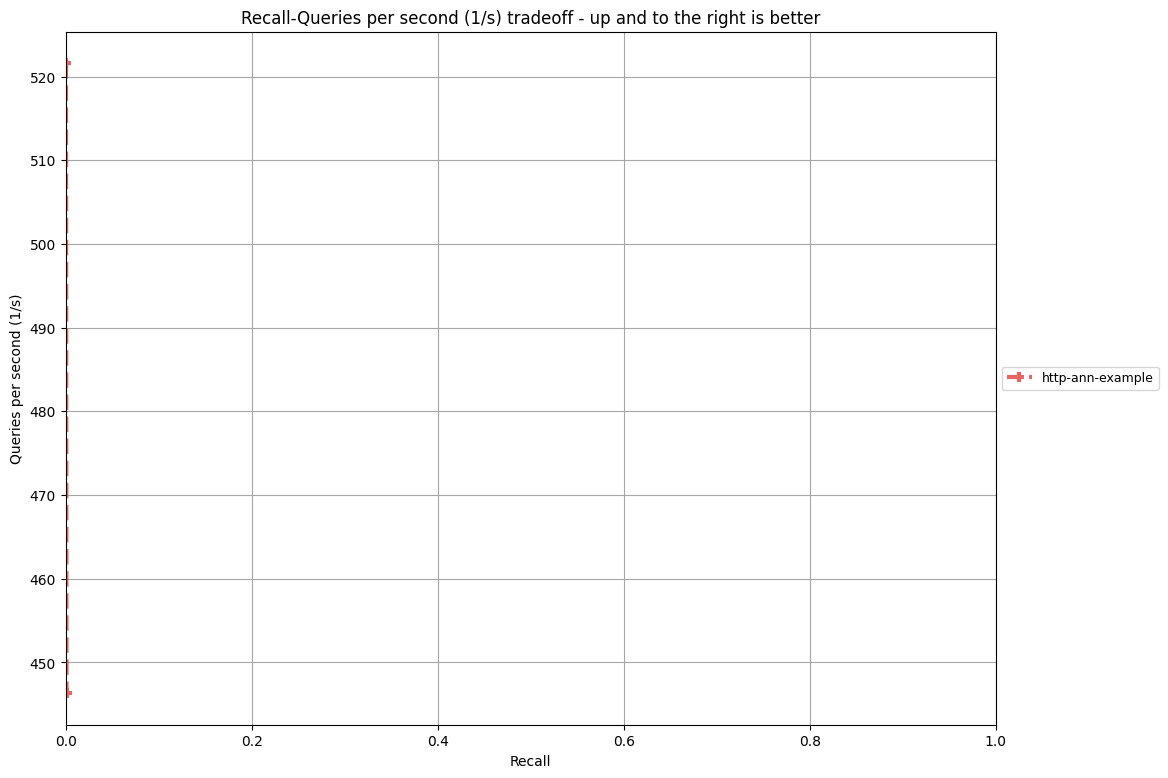
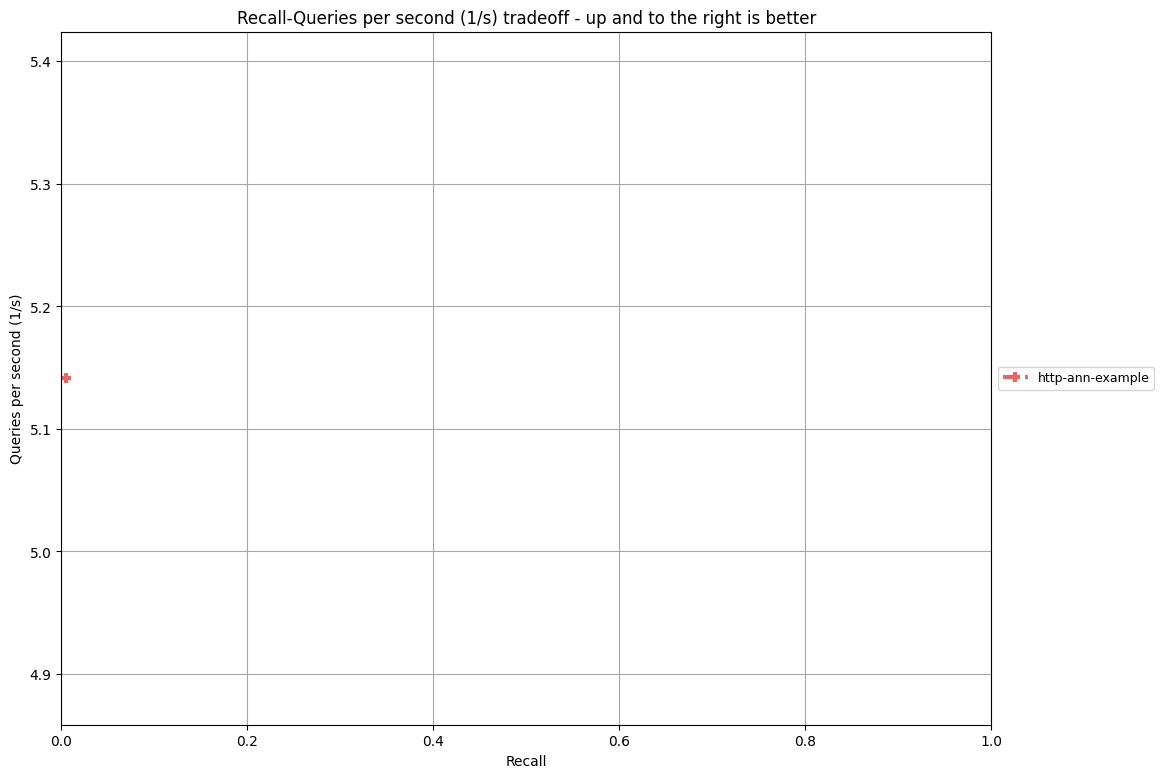
Runs end-to-end with plausible results. Better comments and docs.

diff --git a/benchmark/algorithms/httpann.py b/benchmark/algorithms/httpann.py
@@ -1,31 +1,35 @@
-import requests
 import shlex
 import sys
 import time
-from dataclasses import dataclass
 from subprocess import Popen
 from threading import Thread
-from typing import Union, List
 
 import numpy as np
+import requests
 from flask import jsonify
-
 from sklearn.neighbors import NearestNeighbors
 
 from benchmark.algorithms.base import BaseANN
 from benchmark.datasets import DATASETS
 
 
-class HttpANNError(RuntimeError):
-    pass
-
-
-class HttpANNResponseError(HttpANNError):
-    def __init__(self, endpoint: str, expected_status: int, actual_status: int):
-        super(HttpANNError, self).__init__(f"Endpoint {endpoint} expected {expected_status} but got {actual_status}")
-
-
 class HttpANN(BaseANN):
+    """
+    HTTP-based ANN model.
+    Designed to enable language-agnostic ANN by delegating indexing and querying to a separate HTTP server.
+
+    The HTTP server must satisfy the following API.
+    Note that this is basically a 1:1 copy of the BaseANN Python Class API implemented as remote procedure calls.
+
+    | Method | Route                | Request Body                                                                                               | Expected Status | Response Body                                                              |
+    | ------ | -------------------- | ---------------------------------------------------------------------------------------------------------- | --------------- | -------------------------------------------------------------------------- |
+    | POST   | /init                | dictionary of constructor arguments, e.g., {“metric”: “euclidean”, “dimension”: 99 }                       | 201             | { }                                                                        |
+    | POST   | /load_index          | { "dataset": <dataset name, e.g. "bigann-10m"> }                                                           | 201             | { "load_index": <Boolean indicating whether the index can be loaded> }     |
+    | POST   | /set_query_arguments | dictionary of query arguments                                                                              | 201             | { }                                                                        |
+    | POST   | /query               | { “X”: <query vectors as list of lists of floats>, “k”: <number of neighbors to find and keep in memory> } | 201             | { }                                                                        |
+    | POST   | /get_results         | { }                                                                                                        | 200             | { “get_results”: <neighbors as list of lists of ints> }                    |
+    | POST   | /get_additional      | { }                                                                                                        | 200             | { “get_additional”: <dictionary of arbitrary additional result metadata> } |
+    """
 
     def __init__(self, server_url: str, start_seconds: int, name: str, **kwargs):
         self.server_url = server_url
@@ -41,13 +45,6 @@ class HttpANN(BaseANN):
     def post(self, path: str, body: dict, expected_status: int) -> dict:
         url = f"{self.server_url}/{path}"
         res = requests.post(url, json=body)
-        if res.status_code != expected_status:
-            raise HttpANNResponseError(url, expected_status, res.status_code)
-        return res.json()
-
-    def get(self, path: str, expected_status: int) -> dict:
-        url = f"{self.server_url}/{path}"
-        res = requests.get(url)
         if res.status_code != expected_status:
             raise HttpANNResponseError(url, expected_status, res.status_code)
         return res.json()
@@ -69,21 +66,38 @@ class HttpANN(BaseANN):
         pass
 
     def get_results(self):
-        json = self.get("results", 200)
-        return np.array(json)
+        json = self.post("get_results", dict(), 200)
+        return np.array(json["get_results"])
 
     def get_range_results(self):
         pass
 
     def get_additional(self):
-        return {}
+        json = self.post("get_additional", dict(), 200)
+        return json["get_additional"]
 
     def set_query_arguments(self, query_args):
         body = dict(query_args=query_args)
         self.post("set_query_arguments", body, 201)
 
 
+class HttpANNError(RuntimeError):
+    """Custom error type"""
+    pass
+
+
+class HttpANNResponseError(HttpANNError):
+    """Custom error type"""
+    def __init__(self, endpoint: str, expected_status: int, actual_status: int):
+        super(HttpANNError, self).__init__(f"Endpoint {endpoint} expected {expected_status} but got {actual_status}")
+
+
 class HttpANNSubprocess(object):
+    """
+    Helper class to start the HTTP server as a local subprocess.
+    Starts a background thread to monitor the subprocess by checking for an exit code once per second.
+    If the background thread finds an exit code, it will raise an HttpANNError.
+    """
     def __init__(self, cmd: str):
         proc = Popen(shlex.split(cmd), stdout=sys.stdout, stderr=sys.stderr)
 
@@ -101,55 +115,70 @@ class HttpANNSubprocess(object):
         t.start()
 
 
-class HttpANNExampleModelImplementation(BaseANN):
-
-    def __init__(self, metric: str, dimension: int, use_dims: float = 0.1):
-        self.metric = metric
-        self.dimension = dimension
-        self.use_dims = use_dims
-        self.knn = None
-        self.high_variance_dims = None
-        self.res = None
-
-    def fit(self, dataset):
-        ds = DATASETS[dataset]()
-        arr = ds.get_dataset()
-        var = arr.var(axis=0)
-        num_dims = int(self.use_dims * arr.shape[1])
-        self.high_variance_dims = np.argsort(var)[-num_dims:]
-        self.knn = NearestNeighbors(algorithm='brute', metric=self.metric)
-        self.knn.fit(arr[:150000, self.high_variance_dims])
-
-    def load_index(self, dataset):
-        ds = DATASETS[dataset]()
-        return ds.nb_M <= 10
-
-    def query(self, X, k):
-        arr = np.array(X)[:, self.high_variance_dims]
-        self.res = self.knn.kneighbors(arr, n_neighbors=k, return_distance=False)
-
-    def range_query(self, X, radius):
-        pass
-
-    def get_results(self):
-        return self.res
-
-    def get_range_results(self):
-        return self.res
-
-    def get_additional(self):
-        return {}
-
-
 class HttpANNExampleModel(HttpANN, HttpANNSubprocess):
+    """
+    ANN model that implements HttpANN and HttpANNSubprocess.
+    By implementing HttpANNSubprocess, it starts a local server, which is defined further below in the same file.
+    By implementing HttpANN, it can be used by runner.py to make ANN requests from Python to the local server.
+    The model that it uses is extremely slow, so this is only intended for example purposes.
+    """
     def __init__(self, metric: str, dimension: int, use_dims: float):
         HttpANNSubprocess.__init__(self, "python3 -m benchmark.algorithms.httpann example")
         HttpANN.__init__(self, server_url="http://localhost:8080", start_seconds=3,
-                         name=f"http-ann-example-{metric}-{use_dims}",
-                         metric=metric, dimension=dimension, use_dims=use_dims)
+                         name=f"http-ann-example-{metric}-{use_dims}", metric=metric, dimension=dimension,
+                         use_dims=use_dims)
 
 
-def example():
+# Starts a local flask server that adheres to the HttpANN API and delegates the work to a local ANN model.
+if __name__ == "__main__" and sys.argv[-1] == "example":
+
+    class SimpleANNModel(object):
+        """
+        Very simple ANN model intended only to demonstrate the HttpANN functionality.
+        This model is instantiated and called from the example server.
+        """
+
+        def __init__(self, metric: str, dimension: int, use_dims: float = 0.1):
+            self.metric = metric
+            self.dimension = dimension
+            self.use_dims = use_dims
+            self.knn = None
+            self.high_variance_dims = None
+            self.res = None
+
+        def fit(self, dataset):
+            ds = DATASETS[dataset]()
+            arr = ds.get_dataset()
+            var = arr.var(axis=0)
+            num_dims = int(self.use_dims * arr.shape[1])
+            self.high_variance_dims = np.argsort(var)[-num_dims:]
+            self.knn = NearestNeighbors(algorithm='brute', metric=self.metric)
+            self.knn.fit(arr[:, self.high_variance_dims])
+
+        def load_index(self, dataset):
+            ds = DATASETS[dataset]()
+            return ds.nb_M <= 10
+
+        def query(self, X, k):
+            batch = 100
+            self.res = np.zeros((len(X), k))
+            for i in range(0, len(X), batch):
+                subset = X[i:i + batch, self.high_variance_dims]
+                self.res[i:i + batch] = self.knn.kneighbors(subset, n_neighbors=k, return_distance=False)
+
+        def range_query(self, X, radius):
+            pass
+
+        def get_results(self):
+            return self.res
+
+        def get_range_results(self):
+            return self.res
+
+        def get_additional(self):
+            return {}
+
+
     from flask import Flask, request
     from gevent.pywsgi import WSGIServer
 
@@ -164,7 +193,7 @@ def example():
 
     @app.route("/init", methods=['POST'])
     def init():
-        app.model = HttpANNExampleModelImplementation(**request.json)
+        app.model = SimpleANNModel(**request.json)
         return jsonify(dict()), 201
 
     @app.route("/load_index", methods=['POST'])
@@ -194,16 +223,16 @@ def example():
         app.model.query(np.array(j['X']), j['radius'])
         return jsonify(dict()), 201
 
-    @app.route("/results", methods=['GET'])
+    @app.route("/get_results", methods=['POST'])
     def get_results():
-        res_lists = [arr.tolist() for arr in app.model.res]
-        return jsonify(res_lists), 200
+        neighbors = [arr.tolist() for arr in app.model.res]
+        return jsonify(dict(get_results=neighbors)), 200
 
-    @app.route("/range_results", methods=['GET'])
+    @app.route("/get_range_results", methods=['POST'])
     def get_range_results():
         return jsonify(dict(error="Not implemented")), 501
 
-    @app.route("/additional", methods=['GET'])
+    @app.route("/get_additional", methods=['POST'])
     def get_additional():
         return jsonify(app.model.get_additional()), 200
 
@@ -211,8 +240,3 @@ def example():
     # app.run('0.0.0.0', 8080, debug=True)
     http_server = WSGIServer(('0.0.0.0', 8080), app)
     http_server.serve_forever()
-
-
-# Run the SklearnExample in a Flask server.
-if __name__ == "__main__" and sys.argv[-1] == "example":
-    example()
